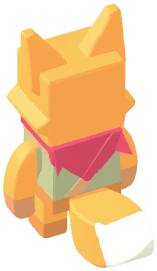
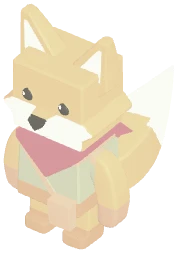
Music steps aside for real clips; home Focci walks to the row you point at
The island's music kept playing under a YouGlish clip. syncMusic, which
already runs every frame, now also stays quiet while the clip player is
open (html.ygm-on).

Home Focci is re-rendered three-quarters toward the viewer and graded
paler (this picture only; the island's Focci is untouched), shrunk to
62px, and stands just right of the four rows. He walks to the row you
point at -- hover with a mouse; on a touch screen the first tap points
and turns the row white -- and hops when you choose it, then the row
opens; Enter keeps its big hop into the island. Verified: a first tap on
Progress moved him to top 86px (that row's bottom) without opening it;
the second opened Progress.

diff --git a/index.html b/index.html
@@ -6849,6 +6849,21 @@
   .cz-today b{font-size:12px;color:var(--cz-ink)}
   .cz-today.done{color:var(--cz-sage)}
   .cz-main > .cz-cap{margin-top:30px}
+
+  /* ---------------- home Focci, fourth pass ----------------
+     Smaller and paler than the island's own Focci (this picture only:
+     re-rendered three-quarters toward you and graded towards the page's
+     cream), standing just right of the four rows and walking to the one
+     you point at. */
+  .cz-focci{left:180px;top:0;bottom:auto;width:56px;height:76px;transition:top .45s cubic-bezier(.4,.1,.3,1)}
+  .cz-focci img{height:62px;bottom:6px;margin-left:-22px}
+  .cz-sh{width:36px;height:8px;margin-left:-18px;bottom:2px}
+  @keyframes cz-walk{0%,100%{transform:translateY(0) rotate(0)}25%{transform:translateY(-5px) rotate(-4deg)}75%{transform:translateY(-5px) rotate(4deg)}}
+  .cz-focci.walk img{animation:cz-walk .23s ease-in-out 2}
+  @keyframes cz-hop2{0%{transform:translateY(0) scale(1,1)}18%{transform:translateY(0) scale(1.12,.86)}
+    50%{transform:translateY(-38px) scale(.95,1.06)}82%{transform:translateY(0) scale(1.08,.9)}100%{transform:translateY(0) scale(1,1)}}
+  .cz-focci.hop2 img{animation:cz-hop2 .42s cubic-bezier(.3,.6,.4,1)}
+  .cz-focci.hop2 .cz-puff b{animation:cz-puff .45s cubic-bezier(.2,.7,.3,1) .3s forwards}
 </style>
 </head>
 <body>
@@ -7531,10 +7546,10 @@
     <div class="cz-cap">Where to</div>
     <div class="cz-where">
     <nav class="cz-nav" aria-label="Where to">
-      <button class="cz-row cz-go-row on" onclick="fhEnterIsland()"><i class="cz-edge" aria-hidden="true"></i><svg viewBox="0 0 24 24" fill="none" stroke="currentColor" stroke-width="1.5" stroke-linecap="round" stroke-linejoin="round"><path d="M3 17.5c2.2 1.4 4.4 1.4 6.6 0s4.4-1.4 6.6 0 3.6 1.4 4.8.6"/><path d="M6.5 15.2 12 5l5.5 10.2"/><path d="M9.6 9.5h4.8"/></svg><span><b>Enter the island</b><em>Walk, hunt, rescue</em></span><i class="cz-dot"></i></button>
-      <button class="cz-row" onclick="czOpen('saved')"><svg viewBox="0 0 24 24" fill="none" stroke="currentColor" stroke-width="1.5" stroke-linecap="round" stroke-linejoin="round"><path d="M7 4h10a1 1 0 0 1 1 1v15l-6-3.8L6 20V5a1 1 0 0 1 1-1z"/></svg><span><b>Saved</b><em>Words you kept</em></span><i class="cz-dot"></i></button>
-      <button class="cz-row" onclick="czOpen('stats')"><svg viewBox="0 0 24 24" fill="none" stroke="currentColor" stroke-width="1.5" stroke-linecap="round" stroke-linejoin="round"><path d="M4 20h16"/><path d="M7 16v-4"/><path d="M12 16V8"/><path d="M17 16v-7"/></svg><span><b>Progress</b><em>Streak and XP</em></span><i class="cz-dot"></i></button>
-      <button class="cz-row" onclick="czPage('games')"><svg viewBox="0 0 24 24" fill="none" stroke="currentColor" stroke-width="1.5" stroke-linecap="round" stroke-linejoin="round"><path d="M12 3.5 20.5 12 12 20.5 3.5 12z"/><path d="M12 8.5 15.5 12 12 15.5 8.5 12z"/></svg><span><b>Mini games</b><em>Four ways to play</em></span><i class="cz-dot"></i></button>
+      <button class="cz-row cz-go-row on" data-go="enter"><i class="cz-edge" aria-hidden="true"></i><svg viewBox="0 0 24 24" fill="none" stroke="currentColor" stroke-width="1.5" stroke-linecap="round" stroke-linejoin="round"><path d="M3 17.5c2.2 1.4 4.4 1.4 6.6 0s4.4-1.4 6.6 0 3.6 1.4 4.8.6"/><path d="M6.5 15.2 12 5l5.5 10.2"/><path d="M9.6 9.5h4.8"/></svg><span><b>Enter the island</b><em>Walk, hunt, rescue</em></span><i class="cz-dot"></i></button>
+      <button class="cz-row" data-go="saved"><svg viewBox="0 0 24 24" fill="none" stroke="currentColor" stroke-width="1.5" stroke-linecap="round" stroke-linejoin="round"><path d="M7 4h10a1 1 0 0 1 1 1v15l-6-3.8L6 20V5a1 1 0 0 1 1-1z"/></svg><span><b>Saved</b><em>Words you kept</em></span><i class="cz-dot"></i></button>
+      <button class="cz-row" data-go="stats"><svg viewBox="0 0 24 24" fill="none" stroke="currentColor" stroke-width="1.5" stroke-linecap="round" stroke-linejoin="round"><path d="M4 20h16"/><path d="M7 16v-4"/><path d="M12 16V8"/><path d="M17 16v-7"/></svg><span><b>Progress</b><em>Streak and XP</em></span><i class="cz-dot"></i></button>
+      <button class="cz-row" data-go="games"><svg viewBox="0 0 24 24" fill="none" stroke="currentColor" stroke-width="1.5" stroke-linecap="round" stroke-linejoin="round"><path d="M12 3.5 20.5 12 12 20.5 3.5 12z"/><path d="M12 8.5 15.5 12 12 15.5 8.5 12z"/></svg><span><b>Mini games</b><em>Four ways to play</em></span><i class="cz-dot"></i></button>
     </nav>
 
     <button class="cz-focci" id="cz-focci" onclick="fhEnterIsland()" aria-label="Enter the island">
@@ -8086,6 +8101,7 @@
     const f = document.getElementById('cz-focci');
     if (f) f.classList.remove('hop');
     document.documentElement.classList.add('home-on');
+    if (window.czFocciPlace) setTimeout(window.czFocciPlace, 0);
     czLive();
   };
 
@@ -8164,12 +8180,53 @@
     home.scrollTop = 0;
   };
   window.czOpen = function (where) { openFwPanel(where); };
-  /* The white row follows the finger: whichever row was last pressed is
-     the chosen one until the next press. */
-  document.querySelectorAll('.cz-row').forEach((b) => b.addEventListener('pointerdown', () => {
-    document.querySelectorAll('.cz-row.on').forEach((o) => { if (o !== b) o.classList.remove('on'); });
-    b.classList.add('on');
-  }));
+  /* Focci walks to the row you point at, and hops when you choose it.
+     With a pointer, hovering is pointing and a click is choosing. On a
+     touch screen there is no hover, so the first tap on a row points (the
+     row turns white and he walks over) and a tap on the row he is already
+     beside chooses it. The row that is white is the one he stands by. */
+  (function () {
+    const rows = Array.from(document.querySelectorAll('.cz-row'));
+    const focci = document.getElementById('cz-focci');
+    if (!rows.length || !focci) return;
+    const hover = () => window.matchMedia && matchMedia('(hover:hover)').matches;
+    const go = { enter: () => fhEnterIsland(), saved: () => czOpen('saved'), stats: () => czOpen('stats'), games: () => czPage('games') };
+    let at = null;
+    function mark(r) { rows.forEach((o) => o.classList.toggle('on', o === r)); }
+    function walkTo(r, instant) {
+      if (at === r) return false;
+      at = r;
+      const top = r.offsetTop + r.offsetHeight - focci.offsetHeight + 4;
+      if (instant) { focci.style.transition = 'none'; focci.style.top = top + 'px'; void focci.offsetWidth; focci.style.transition = ''; return false; }
+      focci.classList.add('walk');
+      focci.style.top = top + 'px';
+      clearTimeout(focci._w);
+      focci._w = setTimeout(() => focci.classList.remove('walk'), 460);
+      return true;
+    }
+    function choose(r) {
+      const moved = walkTo(r);
+      mark(r);
+      const k = r.dataset.go;
+      if (k === 'enter') { setTimeout(go.enter, moved ? 440 : 0); return; }
+      setTimeout(() => {
+        focci.classList.remove('hop2'); void focci.offsetWidth; focci.classList.add('hop2');
+        setTimeout(() => { focci.classList.remove('hop2'); if (go[k]) go[k](); }, 430);
+      }, moved ? 440 : 0);
+    }
+    rows.forEach((r) => {
+      r.addEventListener('mouseenter', () => { if (hover()) walkTo(r); });
+      r.addEventListener('pointerdown', () => { r._armed = (at === r); });
+      r.addEventListener('click', () => {
+        if (!hover() && !r._armed) { walkTo(r); mark(r); return; }
+        choose(r);
+      });
+    });
+    const place = () => { const r = document.querySelector('.cz-row.on') || rows[0]; at = null; walkTo(r, true); };
+    window.addEventListener('resize', place);
+    setTimeout(place, 0);
+    window.czFocciPlace = place;
+  })();
   czLive();
   /* fhOpenSettings was declared twice — once here going straight to the
      settings panel, once further up opening the menu — and the later one

diff --git a/world.js b/world.js
@@ -3931,7 +3931,9 @@ export async function bootFocciWorld(root, opts) {
      island starts it. */
   let musicArmed = false, bgmTrying = false, bgmNeedsTouch = false;
   function syncMusic() {
-    const want = musicArmed && soundOn && !overlayOpen();
+    /* Quiet while a real clip is playing (the YouGlish player, html.ygm-on):
+       the island's music used to play on underneath the speaker. */
+    const want = musicArmed && soundOn && !overlayOpen() && !document.documentElement.classList.contains('ygm-on');
     if (!want) { if (!bgm.paused) bgm.pause(); return; }
     if (!bgm.paused || bgmTrying || bgmNeedsTouch) return;
     bgmTrying = true;

diff --git a/sw.js b/sw.js
@@ -3,7 +3,7 @@
    Only small, essential files are precached on install — every image is
    cached automatically the first time it's fetched successfully, which
    happens naturally the first time you open the app online. */
-const CACHE = 'focci-v199';
+const CACHE = 'focci-v200';
 const SHELL = [
   './',
   './index.html',
